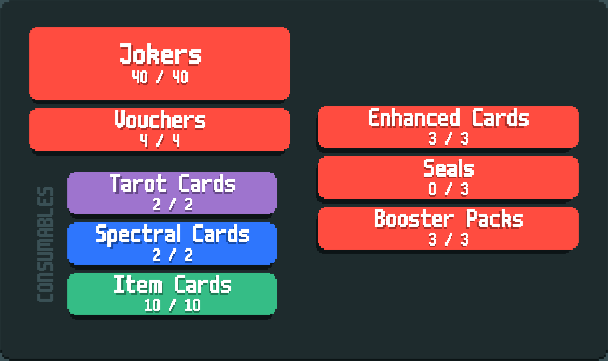
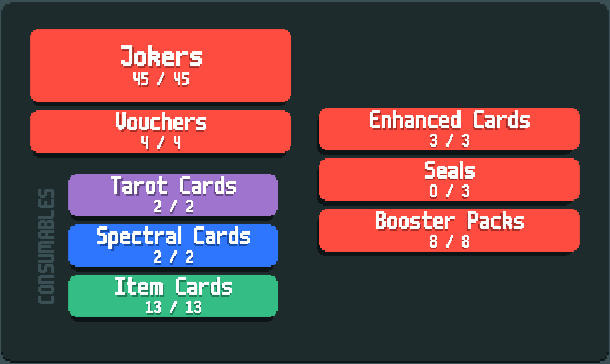
version update on info

diff --git a/README.md b/README.md
@@ -21,14 +21,14 @@
 </div>
 
 Currently, this mod adds:
-- 40 Jokers
+- 45 Jokers
 - 4 Vouchers
 - 2 Tarot Cards
 - 2 Spectral Cards
 - 3 Enhanced Cards
 - 3 Seals
 - 1 Consumable types (containing their own booster pack):
-  - 10 Item cards : used for utility during rounds
+  - 13 Item cards : used for utility during rounds
  
 Check the Roadmap for info at upcoming content this [Roadmap](https://github.com/YUORKI/Fazbears-Video-Poker-Simulator/discussions/2#discussion-9090732)
 
